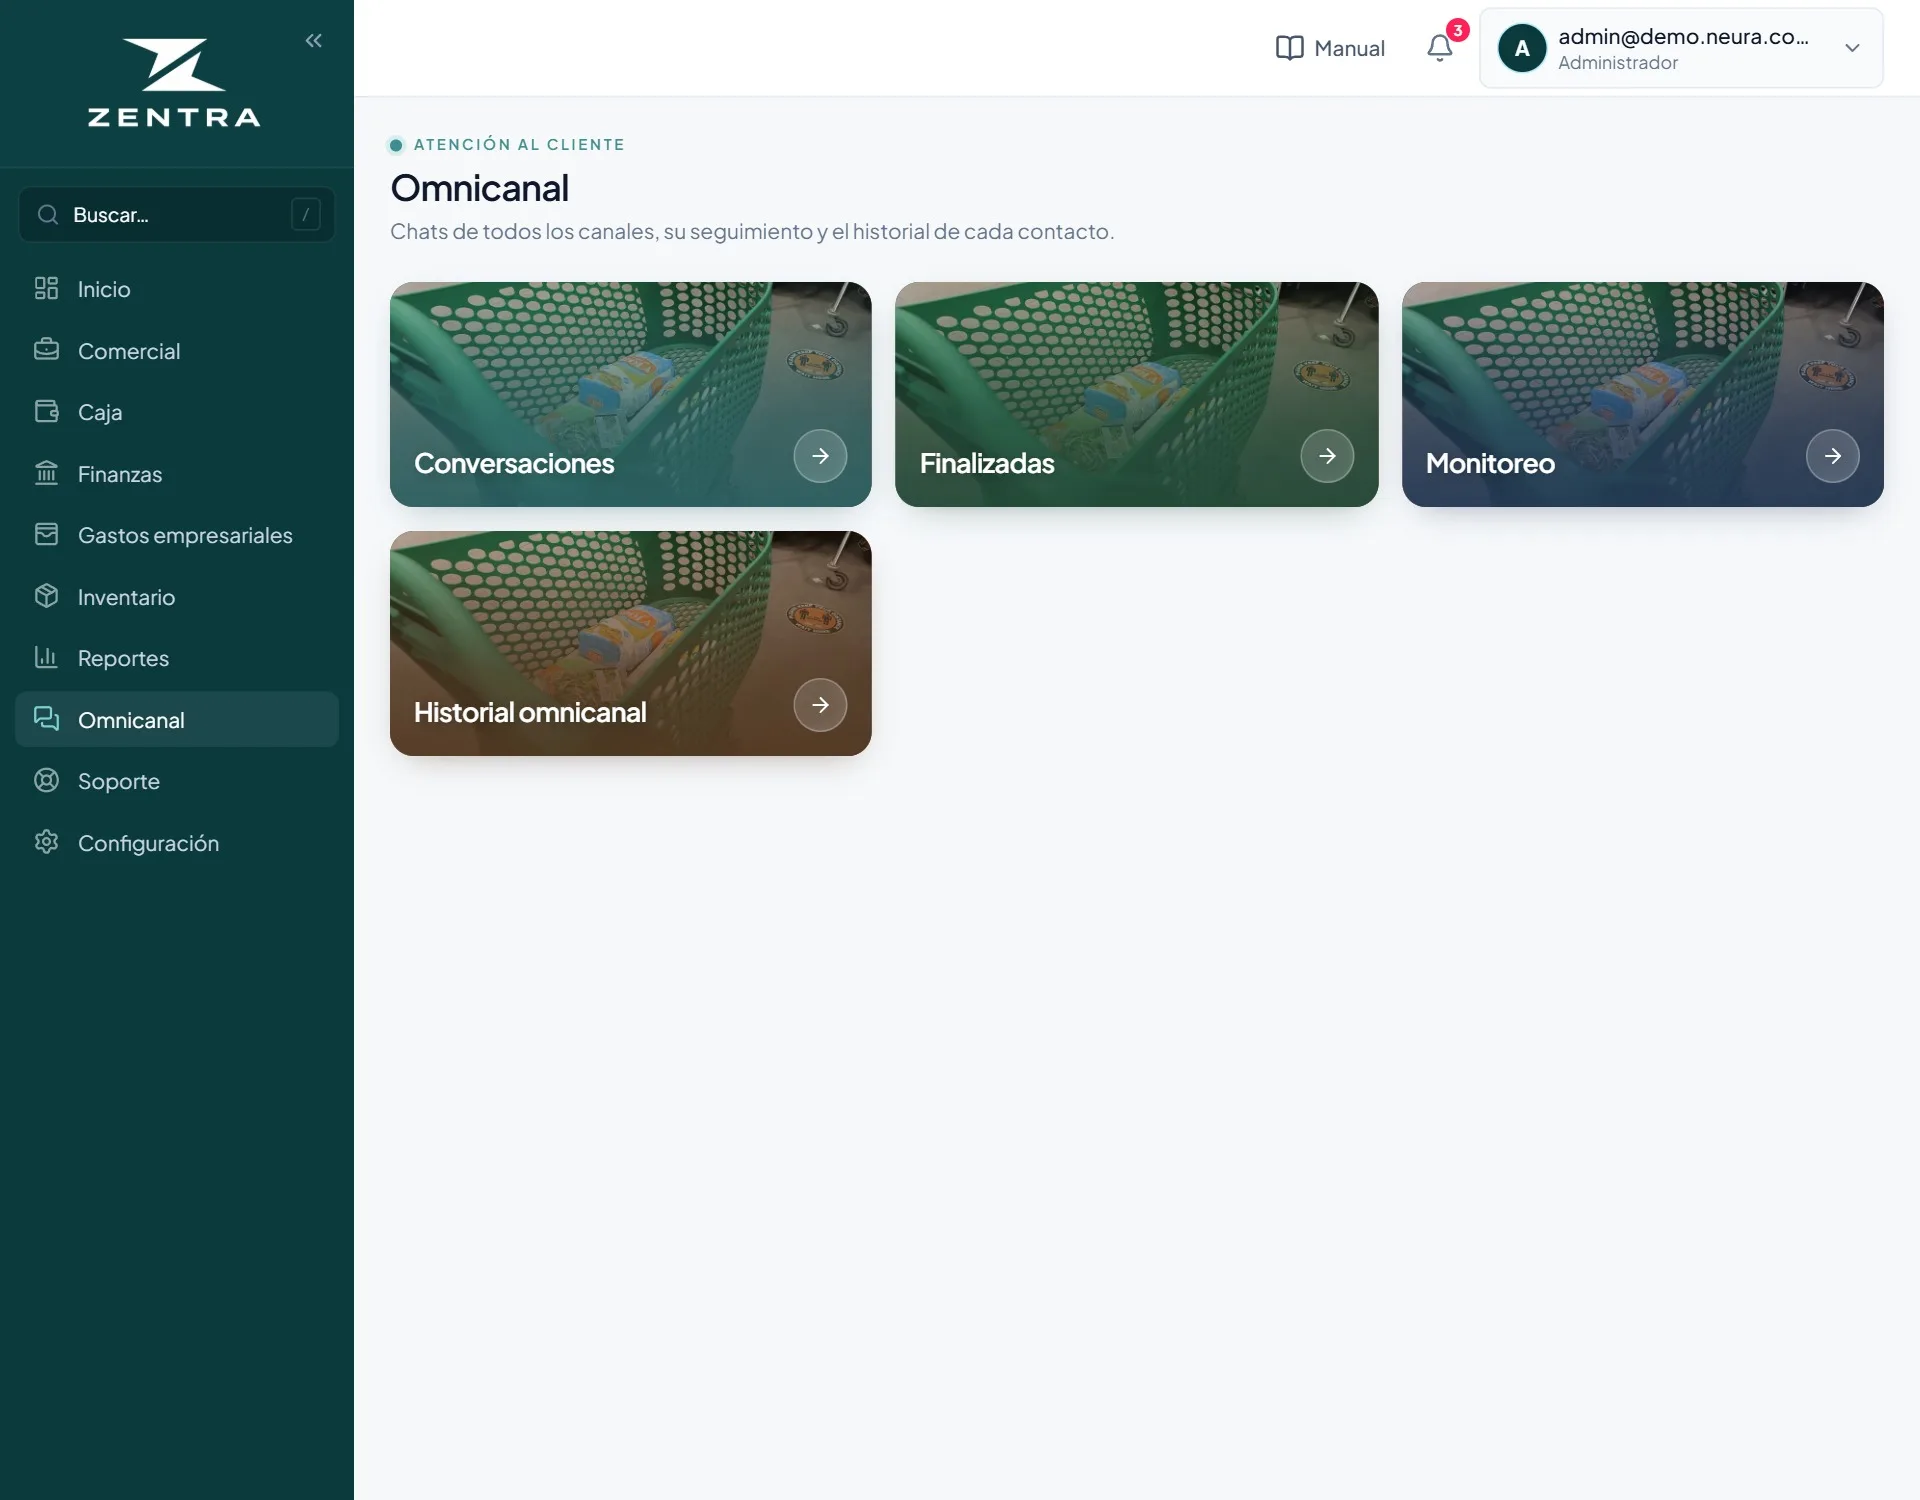
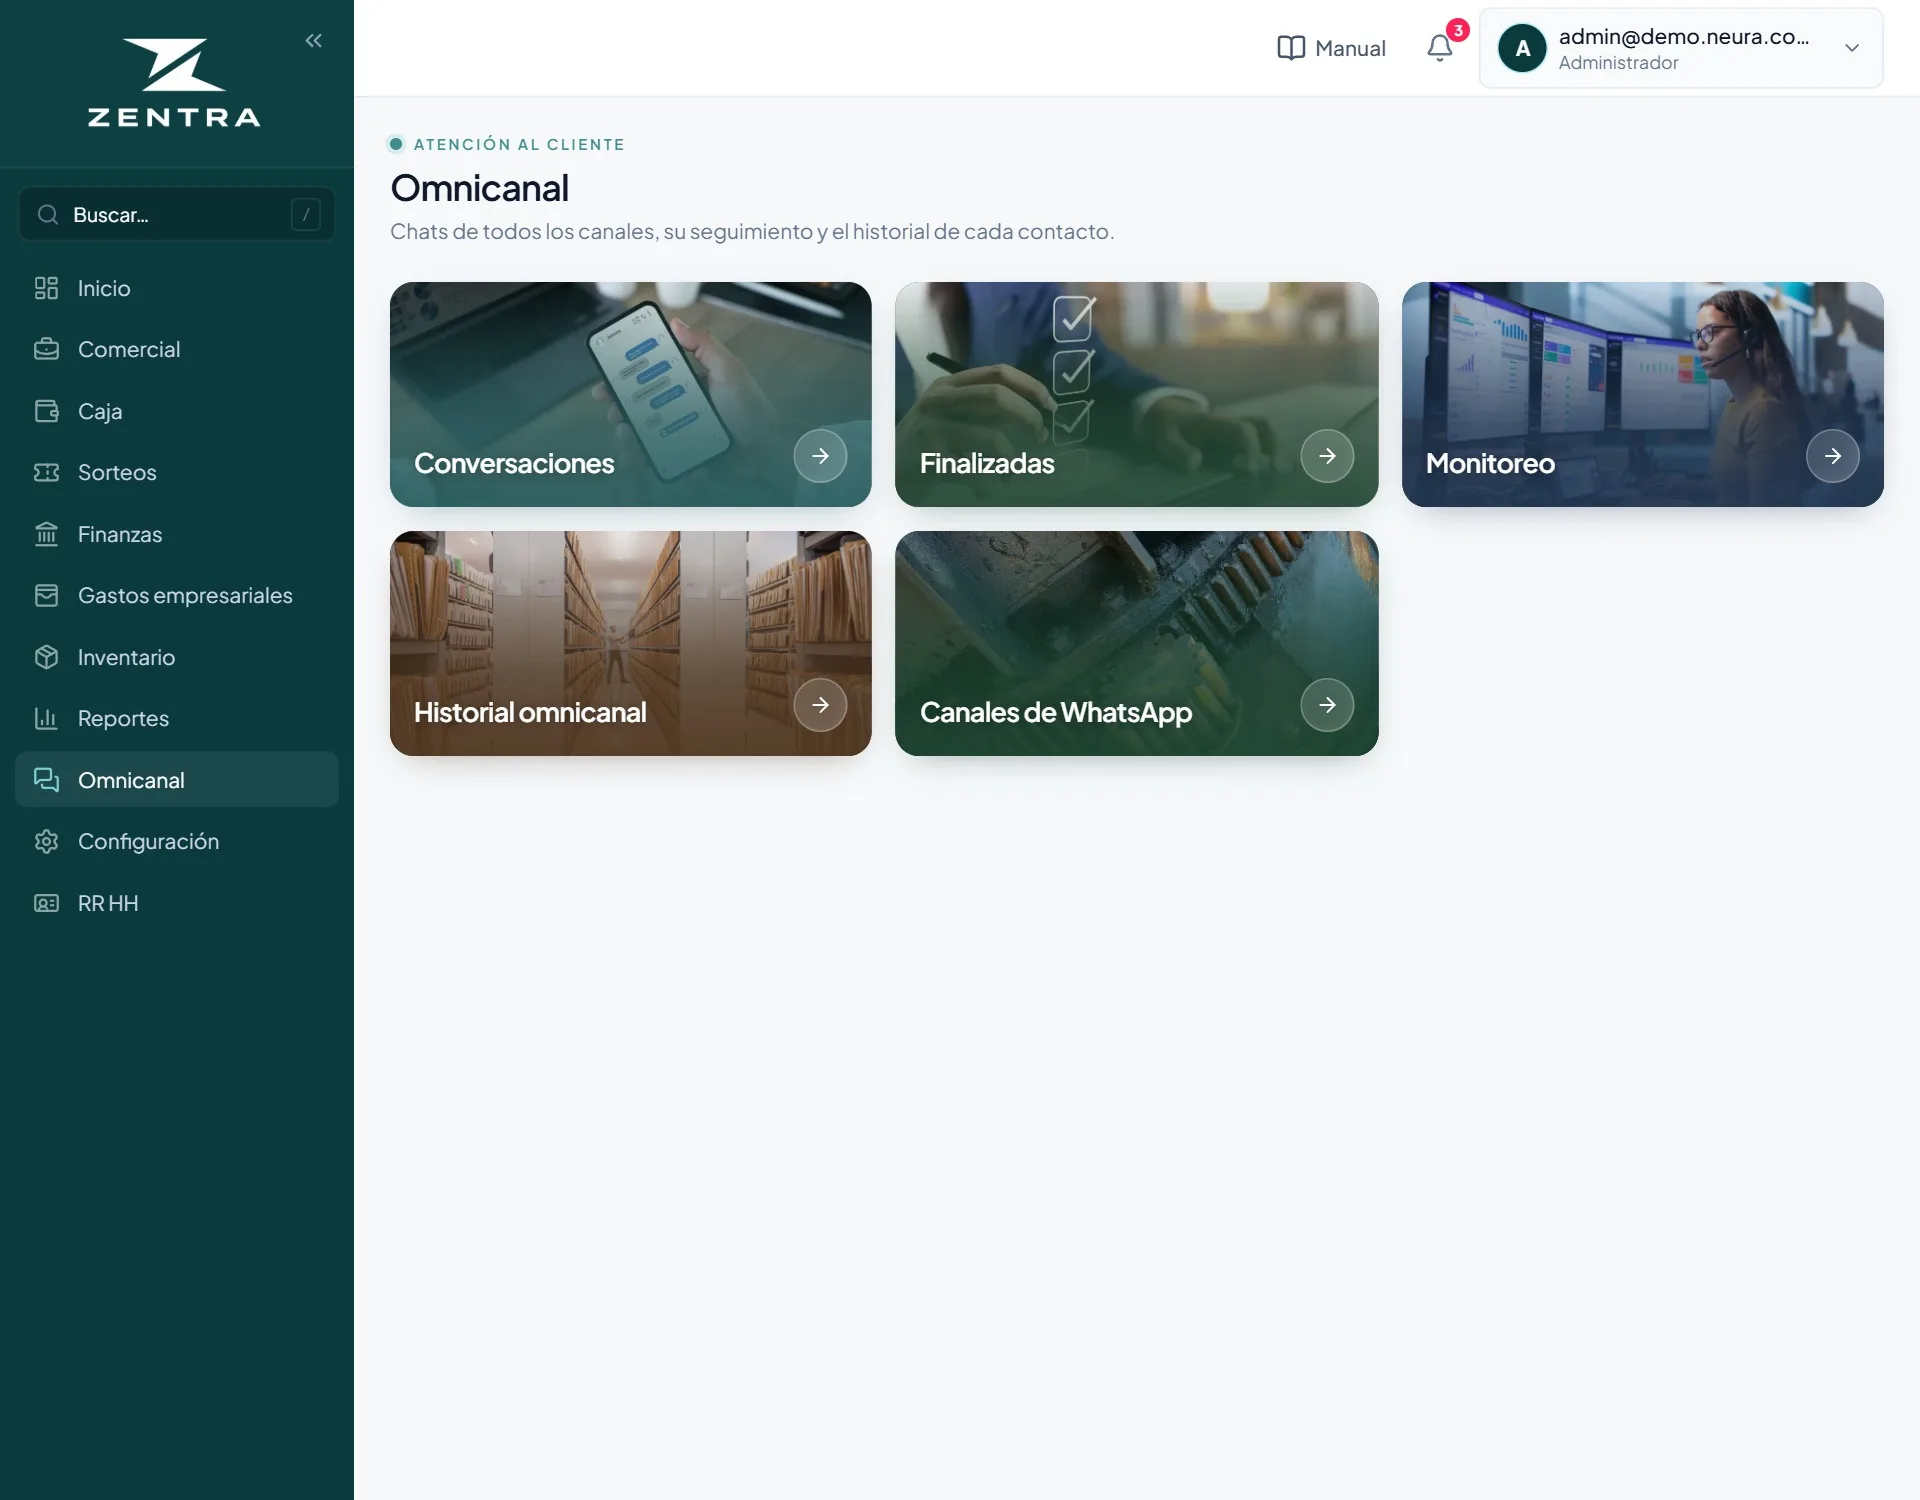
docs(2.0/manual): guia "Conectar el WhatsApp de la empresa"
- Nueva guia para Omnicanal > Canales de WhatsApp: proveedor, numero, API key y secreto del
  webhook, copiar la URL del webhook, probar la conexion y prender. Capturas nuevas
  (canales-lista, canales-nuevo, canales-tarjeta) y el panel de Omnicanal rehecho con la
  tarjeta "Canales de WhatsApp".
- "Vender por WhatsApp" avisa que primero hay que conectar el numero.

diff --git a/src/modules/manual/contenido.ts b/src/modules/manual/contenido.ts
@@ -38,7 +38,7 @@ export const LLEGAR: Record<string, [string, string?]> = {
   cliente: ["Comercial", "Clientes"], crm: ["Comercial", "CRM Funnel"], presupuestos: ["Comercial", "Presupuestos"], gestion: ["Comercial", "Gestión Clientes"],
   comisiones: ["Comercial", "Comisiones"], planes: ["Comercial", "Planes"], agenda: ["Comercial", "Agenda"],
   "cobrar-deuda": ["Finanzas", "Pagos"], conciliacion: ["Finanzas", "Conciliación"], cobranzas: ["Finanzas", "Cobranzas"],
-  reportes: ["Reportes"], omnicanal: ["Omnicanal", "Conversaciones"], soporte: ["Soporte"],
+  reportes: ["Reportes"], omnicanal: ["Omnicanal", "Conversaciones"], soporte: ["Soporte"], "whatsapp-canal": ["Omnicanal", "Canales de WhatsApp"],
   empresa: ["Configuración", "Datos de la empresa"], facturacion: ["Configuración", "Tickets y facturación"], usuarios: ["Configuración", "Usuarios"],
   rubro: ["Configuración", "Rubro y funciones"], "config-comisiones": ["Configuración", "Comisiones"],
   "rrhh-datos": ["RR HH", "Personal"], "rrhh-salario": ["RR HH", "Personal"], "rrhh-ausencia": ["RR HH", "Personal"], "rrhh-vacaciones": ["RR HH", "Personal"],
@@ -742,6 +742,27 @@ export const GUIAS: Guia[] = [
 
   // ── Atención al cliente ──────────────────────────────────────────────────────
   {
+    id: "whatsapp-canal", grupo: "Atención al cliente", ruta: "/conversaciones/canales", titulo: "Conectar el WhatsApp de la empresa",
+    resumen: "Una sola vez: el número y las claves que te da YCloud o Meta.",
+    bloques: [
+      { texto: "Lo hace el administrador una sola vez, con los datos que te da el proveedor (YCloud o Meta). Hasta que lo prendas, nada cambia." },
+      { img: "canales-lista", alt: "Canales de WhatsApp", pasos: [{ t: "Tocá Conectar un WhatsApp.", marca: "Conectar un WhatsApp" }] },
+      { img: "canales-nuevo", alt: "Conectar un WhatsApp", pasos: [
+        { t: "Elegí el proveedor.", d: "YCloud o la API oficial de Meta.", marca: "YCloud" },
+        { t: "Escribí el número de WhatsApp de la empresa.", d: "Con 595 y sin el 0: 595981123456.", marca: "Número de WhatsApp Business" },
+        { t: "Pegá la API key.", d: "En YCloud: Developers › API Keys.", marca: "API key" },
+        { t: "Pegá el secreto del webhook.", d: "Lo da YCloud cuando creás el webhook.", marca: "Secreto del webhook" },
+        { t: "Tocá Guardar.", d: "El canal queda apagado hasta que lo pruebes.", marca: "Guardar" },
+      ] },
+      { img: "canales-tarjeta", alt: "Canal de WhatsApp guardado", pasos: [
+        { t: "Copiá la URL del webhook y pegala en el proveedor.", d: "En YCloud: Developers › Webhooks, con los avisos de mensajes y de estados.", marca: "URL del webhook (pegala en el proveedor)" },
+        { t: "Tocá Probar conexión.", d: "Si dice «Conexión correcta», las claves están bien.", marca: "Probar conexión" },
+        { t: "Tocá Prender.", d: "Probá escribiendo al número desde otro celular: el mensaje tiene que aparecer en la bandeja.", marca: "Prender" },
+      ] },
+      { ojo: "Las claves no se vuelven a mostrar. Si las cambiás en el proveedor, tocá Editar y cargalas de nuevo." },
+    ],
+  },
+  {
     id: "omnicanal", grupo: "Atención al cliente", ruta: "/conversaciones", titulo: "Responder los chats", resumen: "Todos los mensajes de los clientes en un solo lugar.",
     bloques: [
       { img: "conversaciones", alt: "Bandeja de conversaciones", pasos: [
@@ -898,6 +919,7 @@ export const GUIAS: Guia[] = [
   {
     id: "sorteo-whatsapp", grupo: "Sorteos", ruta: "/sorteos/whatsapp", titulo: "Vender por WhatsApp", resumen: "Un bot toma el pedido, reserva los números y recibe el comprobante.",
     bloques: [
+      { texto: "Antes, conectá el número de la empresa en Omnicanal › Canales de WhatsApp (guía «Conectar el WhatsApp de la empresa»). Mientras tanto podés probar el bot acá mismo, con el chat de prueba." },
       { img: "sorteo-whatsapp", alt: "Venta por WhatsApp", pasos: [
         { t: "Prendé el bot.", marca: "Atender los chats de WhatsApp con el bot" },
         { t: "Elegí en qué WhatsApp atiende y tocá Guardar.", marca: "Guardar" },
